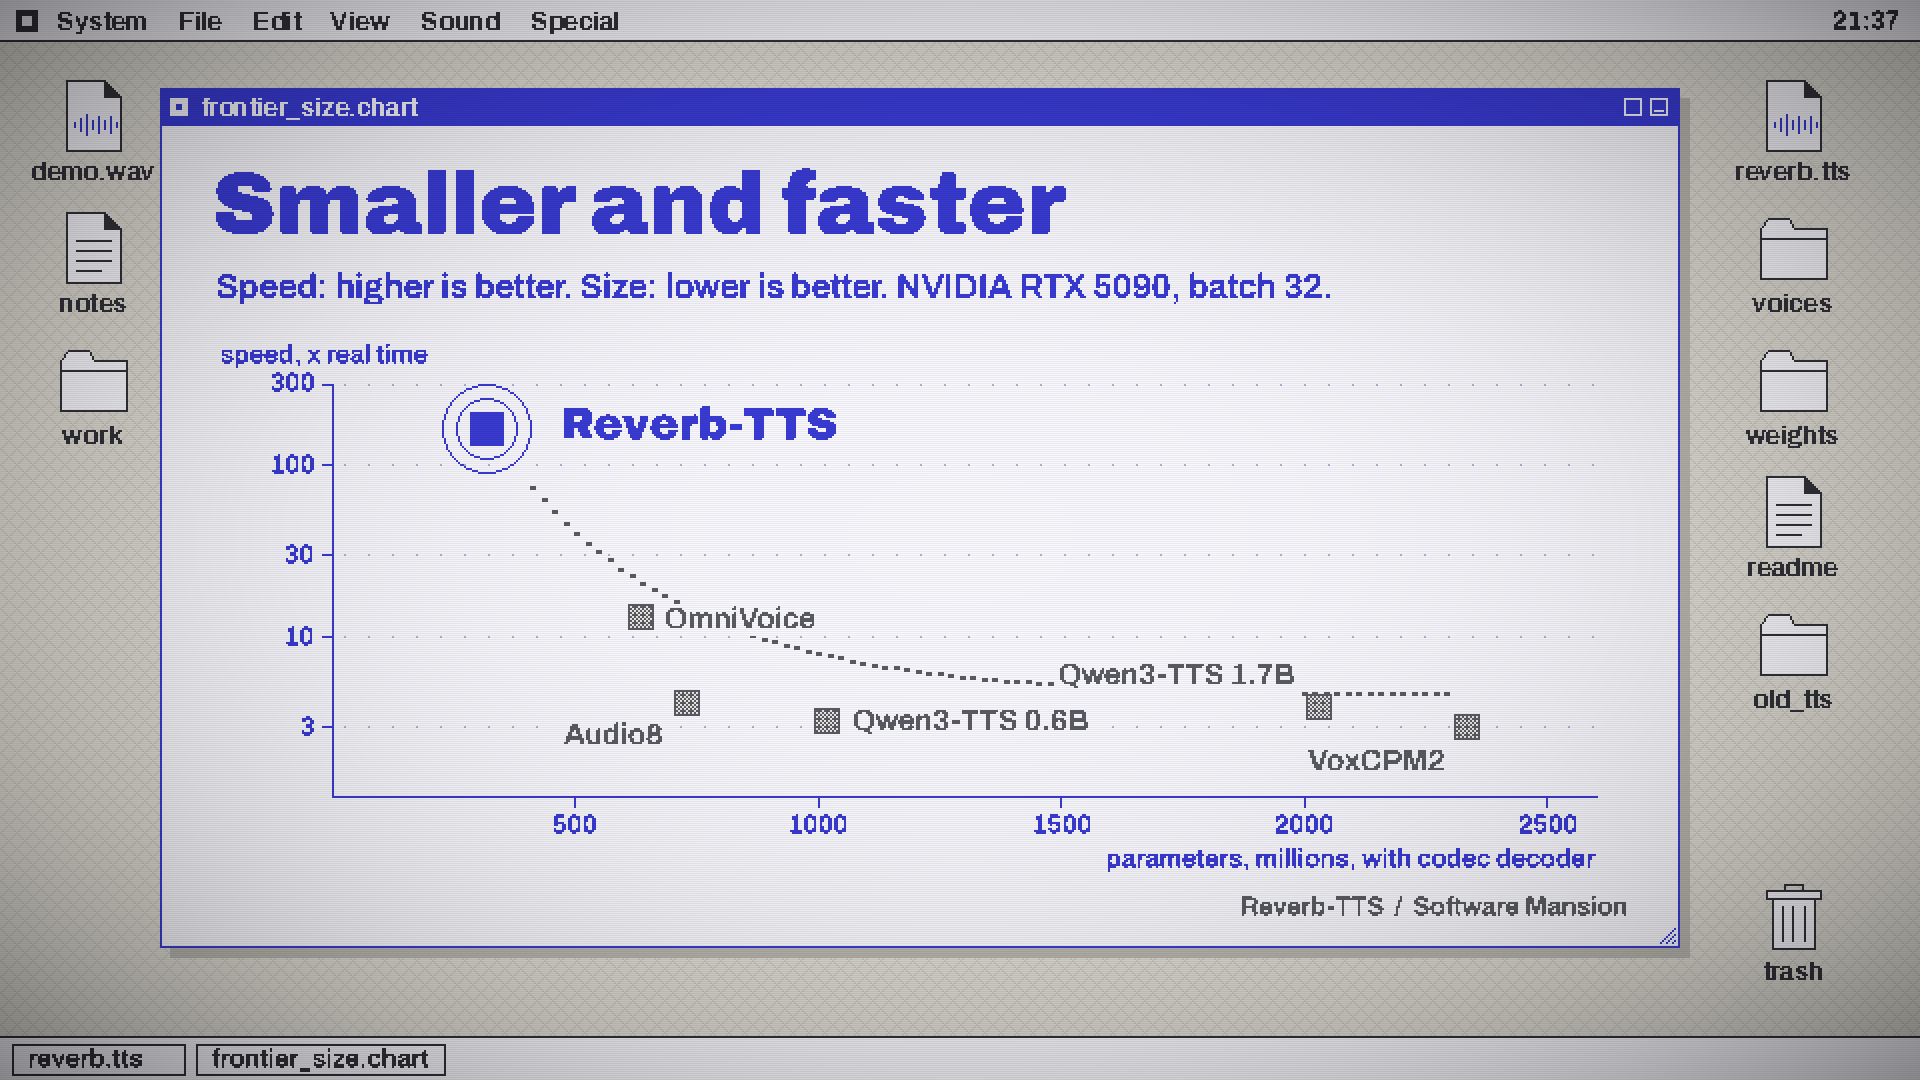
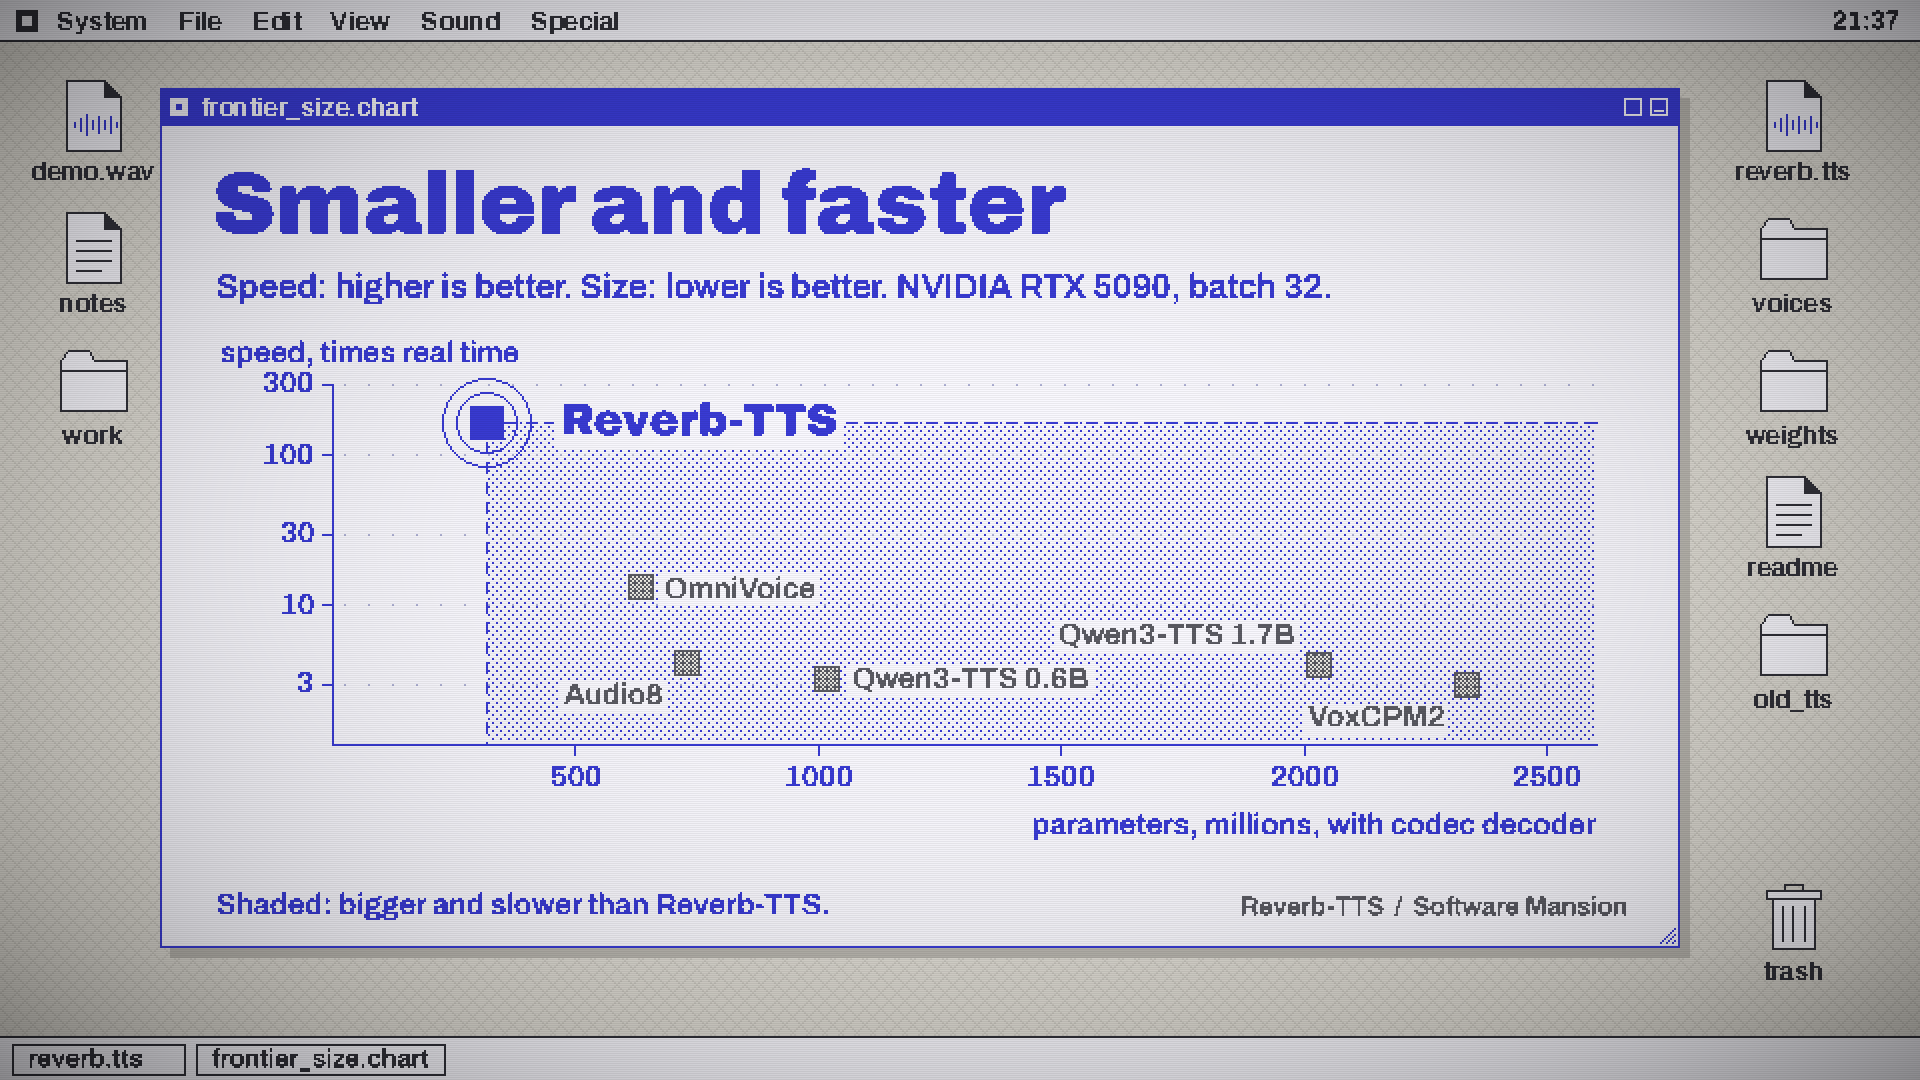
Match the HF card: speeds on three platforms, dark mode, model and decoder sizes
- Header with RTX 5090, iPhone 17 and M4 Pro speeds; dark copies of every image, switched with <picture>
- Training scheme in the overview; the frontier chart redrawn
- Tables split into model and codec decoder sizes; an iPhone 17 row in the speed table
- Install from PyPI; ruNNtime in the browser; safetensors and ExecuTorch sections in the reference
- Igor's wording from the HF card; OmniVoice at 612M

diff --git a/docs/overview.md b/docs/overview.md
@@ -6,12 +6,18 @@ second) over a few passes, conditioned on the text and on a reference recording 
 
 ## How it was made
 
-1. **Initialized from [OmniVoice](https://github.com/k2-fsa/OmniVoice)**, a 613M-parameter masked-diffusion TTS model.
-2. **Pruned with distillation:** 4 of the 28 transformer layers removed, the FFN cut from 3072 to 2048, the text
-   vocabulary from 151,676 to 62,035 tokens; the pruned model was trained to match OmniVoice's predictions.
+1. **Initialized from [OmniVoice](https://github.com/k2-fsa/OmniVoice)**, a 612M-parameter masked-diffusion TTS model.
+2. **Pruned with distillation:** 4 of the 28 transformer layers removed, the FFN cut from 3072 to 2048, the KV groups
+   from 8 to 6, the text vocabulary from 151,676 to 62,035 tokens; the pruned model was trained to match OmniVoice's
+   predictions.
 3. **Retrained** on cleaned, selected subsets of open speech datasets in the seven languages.
 4. **Preference post-training (RLHF-like):** the model generated several takes per prompt, a critic fitted on human
    preference rankings and a CTC intelligibility check picked the better and worse ones, and DPO trained on those pairs.
+
+<picture>
+  <source media="(prefers-color-scheme: dark)" srcset="assets/training_scheme_dark.png">
+  <img src="assets/training_scheme.png" alt="How Reverb is made: OmniVoice is pruned and distilled, retrained on seven languages, then refined with iterative DPO against a critic fitted on human preference rankings.">
+</picture>
 
 ## Results
 
@@ -21,34 +27,38 @@ languages: 700 sentences, 100 per language, each spoken in the voice of one of t
 language. Every model generates one take per sentence with its default settings. WER (Whisper large-v3) and speaker
 similarity (SIM-o) come from OmniVoice's evaluation scripts and are averaged over the languages.
 
-| Model | Parameters (model + codec decoder) | WER ↓ | SIM-o ↑ |
+| Model | Parameters: model + codec decoder | WER ↓ | SIM-o ↑ |
 |:---|---:|---:|---:|
-| **Reverb** | **319M** | **1.35%** | 0.818 |
-| [OmniVoice](https://huggingface.co/k2-fsa/OmniVoice) | 634M | 1.64% | **0.835** |
-| [Audio8-TTS-Realistic-Air](https://huggingface.co/Edge0/Audio8-TTS-Realistic-Air) | 732M | 1.97% | 0.750 |
-| [Qwen3-TTS 0.6B Base](https://huggingface.co/Qwen/Qwen3-TTS-12Hz-0.6B-Base) | 1,020M | 11.96%¹ | 0.781 |
-| [Qwen3-TTS 1.7B Base](https://huggingface.co/Qwen/Qwen3-TTS-12Hz-1.7B-Base) | 2,031M | 1.52%¹ | 0.781 |
-| [VoxCPM2](https://huggingface.co/openbmb/VoxCPM2) | 2,336M | 1.55% | 0.810 |
+| **Reverb** | **297M + 22M** | **1.35%** | 0.818 |
+| [OmniVoice](https://huggingface.co/k2-fsa/OmniVoice) | 612M + 22M | 1.64% | **0.835** |
+| [Audio8-TTS-Realistic-Air](https://huggingface.co/Edge0/Audio8-TTS-Realistic-Air) | 601M + 131M | 1.97% | 0.750 |
+| [Qwen3-TTS 0.6B Base](https://huggingface.co/Qwen/Qwen3-TTS-12Hz-0.6B-Base) | 915M + 105M | 11.96%¹ | 0.781 |
+| [Qwen3-TTS 1.7B Base](https://huggingface.co/Qwen/Qwen3-TTS-12Hz-1.7B-Base) | 1,929M + 102M | 1.52%¹ | 0.781 |
+| [VoxCPM2](https://huggingface.co/openbmb/VoxCPM2) | 2,290M + 46M | 1.55% | 0.810 |
 
-Parameters count the generating model and the decoder of its audio codec; encoders used only to process the reference
-recording are not counted.<br>
+The model's count is the one Hugging Face reports for its weights; the codec decoder turns codes into audio. Encoders
+used only to process the reference recording are not counted.<br>
 ¹ Qwen3-TTS does not support Polish, so its WER is averaged over the other six languages. For Qwen3-TTS 0.6B, 4 of 600 takes
 didn't stop and were cut at 480 tokens (about 38 s); without them its WER is 1.78%.
 
 Generation speed, in × real time (seconds of audio per second of compute; higher is better), on MiniMax English
-sentences. Timing runs from the text and an already-encoded reference voice to the waveform, codec decoding included.
-Every model runs its default settings in bf16.
+sentences. Timing starts from the text and an already-encoded reference voice. Every model runs its default settings.
 
 | Hardware | Reverb | OmniVoice | Audio8 | Qwen3-TTS 0.6B | Qwen3-TTS 1.7B | VoxCPM2 | Fish S2 Pro |
 |:---|---:|---:|---:|---:|---:|---:|---:|
 | NVIDIA RTX 5090, batch 32 | **164.9×** | 13.2× | 4.2× | 3.3× | 4.0× | 3.0×² | 0.18×² |
-| Apple M4 Pro, batch 1 | **21.6×**³ | 0.84× | 0.76× | 0.51× | 0.52× | 0.69× | – |
+| Apple M4 Pro, batch 1 | **12.3×³** | 0.84× | 0.76× | 0.51× | 0.52× | 0.69× | – |
+| iPhone 17, batch 1 | **20.6×** | 0.91× | 1.03× | 1.14× | 0.74× | – | – |
 
+RTX 5090 and M4 Pro: PyTorch in bf16 on the GPU, to the waveform with codec decoding. iPhone 17: ExecuTorch MLX
+programs in fp16 on the GPU, to the codec codes, without the decoder.<br>
 ² No batched generation: sentences run one at a time.<br>
-³ Reverb's ExecuTorch MLX program (fp16) with the Core ML codec decoder. In PyTorch on the GPU (MPS), as the other models run
-on the M4 Pro: 12.3×.
+³ Reverb's ExecuTorch MLX program (fp16) with the Core ML codec decoder, as it ships: 21.6×.
 
-![Speed against size on an RTX 5090, batch 32: Reverb-TTS is the smallest and fastest of the compared models](assets/frontier_size_speed.png)
+<picture>
+  <source media="(prefers-color-scheme: dark)" srcset="assets/frontier_size_speed_dark.png">
+  <img src="assets/frontier_size_speed.png" alt="Speed against size on an RTX 5090, batch 32: every other model is bigger and slower than Reverb-TTS">
+</picture>
 
 ### Time to codes on an Apple M4 Pro
 

diff --git a/README.md b/README.md
@@ -1,4 +1,7 @@
-![Reverb-TTS: zero-shot voice cloning with open weights in 7 languages. 164.9x faster than real time on an RTX 5090 at batch 32, 1.35% word error rate on MiniMax, 297M parameters. Software Mansion AI Labs.](docs/assets/header.png)
+<picture>
+  <source media="(prefers-color-scheme: dark)" srcset="docs/assets/header_dark.png">
+  <img src="docs/assets/header.png" alt="Reverb-TTS: zero-shot voice cloning with open weights in 7 languages. 297M parameters; 164.9x faster than real time on an RTX 5090 at batch 32, 20.6x on an iPhone 17 and 12.3x on an M4 Pro; 1.35% word error rate on MiniMax. Software Mansion AI Labs.">
+</picture>
 
 # Reverb-TTS
 
@@ -9,24 +12,25 @@
   <a href="https://discord.swmansion.com"><img src="https://img.shields.io/badge/Discord-join%20us-3a3cd6?style=for-the-badge&logo=discord&logoColor=white" alt="Join the Software Mansion Discord"></a>
 </p>
 
-**Reverb** is a voice-cloning text-to-speech model: give it a few seconds of someone speaking and the transcript, and
-it speaks any text in that voice. This repository holds the Python package that runs it.
+**Reverb** is a **text-to-speech** model designed for high-quality **voice cloning**: give it a few seconds of
+someone speaking and the transcript, and it speaks any text in that voice. This repository holds the Python package
+that runs it.
 
 - **Zero-shot cloning** from 3 to 10 seconds of speech and its transcript, with no fine-tuning.
 - **7 languages:** English, German, French, Spanish, Italian, Polish, and Portuguese. A voice can speak any of them.
 - **1.35% word error rate** on the MiniMax test set, the lowest of the six open-weight models we compared.
-- **297M parameters**, against OmniVoice's 613M.
-- **164.9× real time** on an RTX 5090 at batch 32, **21.6×** on an Apple M4 Pro at batch 1.
+- **297M parameters**, plus a 22M-parameter codec decoder.
+- **164.9× real time** on an RTX 5090 at batch 32, **over 20×** on an Apple M4 Pro and an iPhone 17 at batch 1.
 - **Weights:** fp32, int8, int8a8, and int4 safetensors, and ExecuTorch programs for MLX, Vulkan, and QNN.
 
 ## Install
 
 ```bash
-pip install git+https://github.com/software-mansion-labs/Reverb-TTS
+pip install reverb-tts
 ```
 
 Python 3.10 or later. The weights download from [Hugging Face](https://huggingface.co/software-mansion/Reverb-TTS) on
-first use. They're gated: request access on the model page, then log in with `hf auth login` or set `HF_TOKEN`.
+first use.
 
 ## Quick start
 
@@ -50,34 +54,31 @@ audio = tts.generate("Dzień dobry! Mówię po polsku.", voice, language="pl")
 `TTS.from_pretrained` picks CUDA, Apple's MPS, or the CPU, in that order. Numbers, dates, money, and abbreviations are
 read out as words, and long texts are split at sentence ends, so you can pass text as you'd write it.
 
+### In the browser
+
+[ruNNtime](https://docs.swmansion.com/runntime/zoo/getting-started/) runs Reverb on the GPU in the browser through
+WebGPU. Install it with `npm install runntime` and follow its getting-started guide.
+
 ## Documentation
 
 - [Overview](docs/overview.md): what the model is, how it was made, and how it scores.
 - [Usage](docs/usage.md): every use case, from the quick start to sampler settings.
-- [Reference](docs/reference.md): model variants, on-device programs, and the repositories' layout.
+- [Reference](docs/reference.md): the safetensors variants, the ExecuTorch programs, and the repositories' layout.
 
 ## Benchmarks
 
 On the [MiniMax Multilingual Test Set](https://huggingface.co/datasets/k2-fsa/TTS_eval_datasets), across Reverb's
 seven languages:
 
-| Model | Parameters (model + codec decoder) | WER ↓ | SIM-o ↑ | RTX 5090, × real time ↑ |
+| Model | Parameters: model + codec decoder | WER ↓ | SIM-o ↑ | RTX 5090, × real time ↑ |
 |:---|---:|---:|---:|---:|
-| **Reverb** | **319M** | **1.35%** | 0.818 | **164.9×** |
-| [OmniVoice](https://huggingface.co/k2-fsa/OmniVoice) | 634M | 1.64% | **0.835** | 13.2× |
-| [VoxCPM2](https://huggingface.co/openbmb/VoxCPM2) | 2,336M | 1.55% | 0.810 | 3.0×¹ |
-| [Qwen3-TTS 1.7B Base](https://huggingface.co/Qwen/Qwen3-TTS-12Hz-1.7B-Base) | 2,031M | 1.52%² | 0.781 | 4.0× |
+| **Reverb** | **297M + 22M** | **1.35%** | 0.818 | **164.9×** |
+| [OmniVoice](https://huggingface.co/k2-fsa/OmniVoice) | 612M + 22M | 1.64% | **0.835** | 13.2× |
+| [VoxCPM2](https://huggingface.co/openbmb/VoxCPM2) | 2,290M + 46M | 1.55% | 0.810 | 3.0×¹ |
+| [Qwen3-TTS 1.7B Base](https://huggingface.co/Qwen/Qwen3-TTS-12Hz-1.7B-Base) | 1,929M + 102M | 1.52%² | 0.781 | 4.0× |
 
 ¹ No batched generation: sentences run one at a time. ² Polish excluded: Qwen3-TTS doesn't support it.<br>
-The full tables and the method are in the [overview](docs/overview.md#results).
-
-## Develop
-
-```bash
-uv venv && uv pip install -e ".[test]" && .venv/bin/pytest
-```
-
-The tests run on a small random model, so they need no download.
+The full tables, the Apple M4 Pro and iPhone 17 speeds, and the method are in the [overview](docs/overview.md#results).
 
 ## Use it responsibly
 

diff --git a/docs/reference.md b/docs/reference.md
@@ -2,7 +2,9 @@
 
 ## Model variants
 
-Weights for the Python package (`TTS.from_pretrained(variant=...)`):
+### safetensors
+
+PyTorch weights for the `reverb-tts` package, in four variants (`TTS.from_pretrained(variant=...)`):
 
 | Variant | Weights | Activations | Download |
 |---|---|---|---|
@@ -15,6 +17,8 @@ In the quantized variants the decoder's linear layers hold the quantized weights
 set, `int8` showed no quality loss against `fp32`, and `int4` none that we could measure. The benchmarks use full
 precision.
 
+### ExecuTorch
+
 [ExecuTorch](https://pytorch.org/executorch) programs for on-device inference, with the codec kept out of the program:
 
 | Program | Hardware | Size |
@@ -24,6 +28,11 @@ precision.
 | MLX int4 | Apple GPUs | 232 MB |
 | Vulkan int4 | Android GPUs | 233 MB |
 | QNN fp16 | Qualcomm NPUs (Snapdragon 8 Gen 3, SM8650) | 614 MB |
+
+### In the browser
+
+[ruNNtime](https://docs.swmansion.com/runntime/zoo/getting-started/) runs Reverb on the GPU in the browser through
+WebGPU, from its own copy of the weights.
 
 ## Repository layout
 
